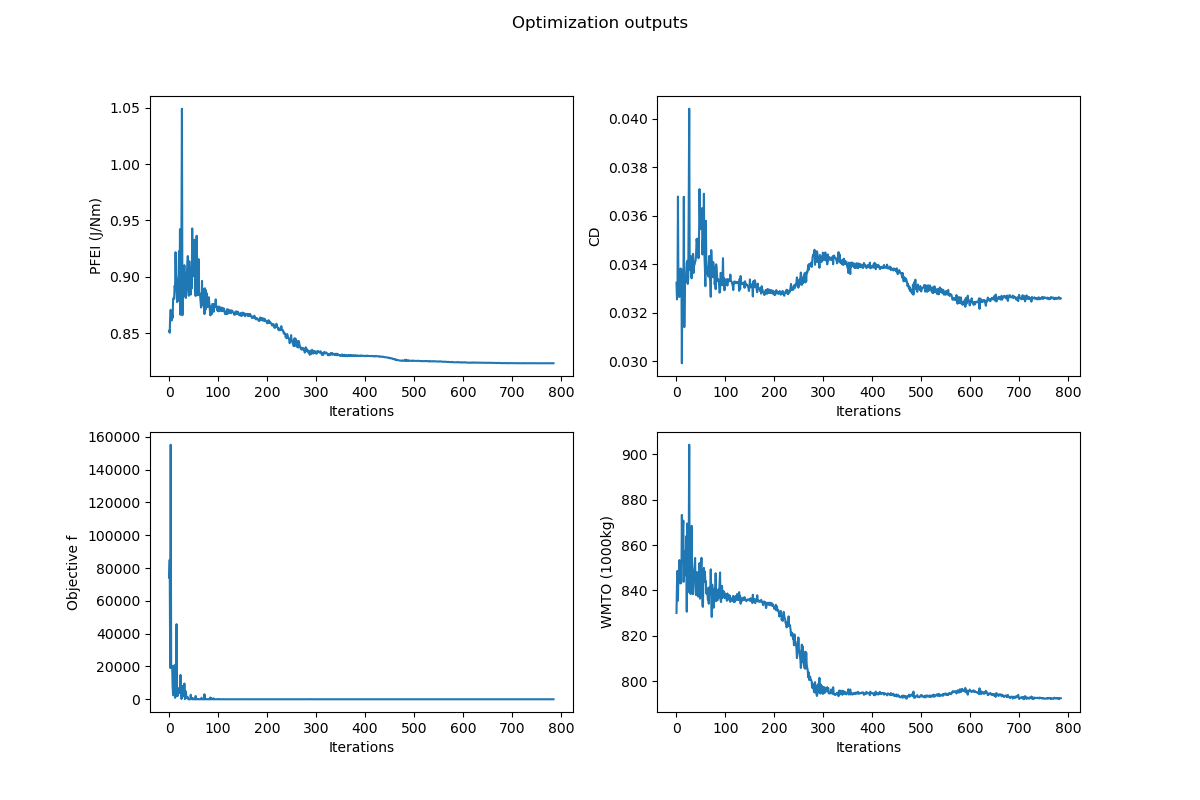
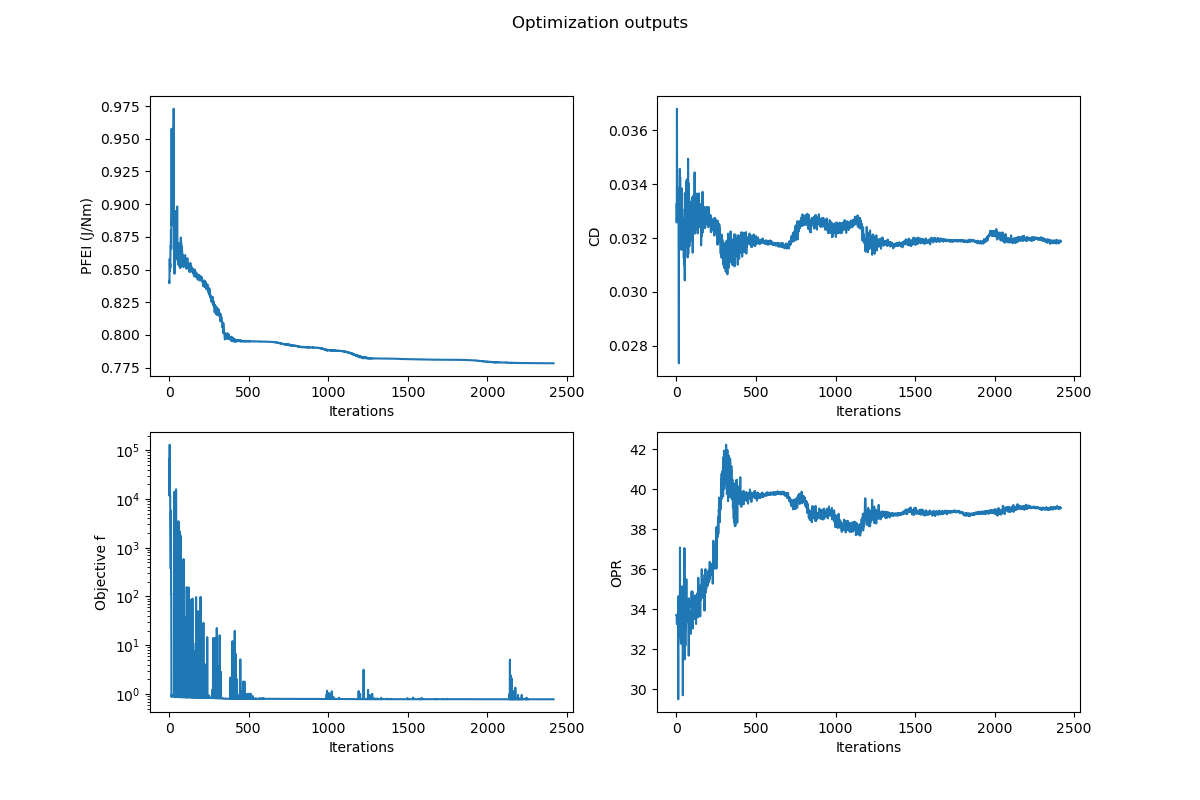
Improved tutorials, Fixed test PFEI equality, additions to README (#109)
* Payload Range tutorial

* Start cleaning up woper.jl

Still need to remove hard coded bits. Probably best if I do this after cloning it. Going to try that.

* default toml file for PRD

* pushing relevant files for PRD tutorial

* added optimization tutorial

* Update optimization.md

Removed some remnants of hydrogen tanks and some minor formatting

* moving tutorial input files to example + minor changes

* PRD scope fix, opt Tt4+iept3 addition

* added docs figures + opt improvements

* cleaning up prd file, plot fix

* better optimziation script with OPR and FPR

* optimization improvements, test fix, readme additions

diff --git a/docs/src/examples/optimization.md b/docs/src/examples/optimization.md
@@ -1,20 +1,27 @@
 # Example for a Multi-variable Optimization
 
+![Optimization Iteration Plot](../assets/Opt_tutorial_iterations.png)
+
 To run a multi variable optimization run on an aircraft model first determing your design variables. For this example the design variables are:
 
 1. Aspect Ratio: `AR`
-2. Cruise Altitude: `Alt` 
+2. Cruise Altitude: `Alt`
 3. Lift Coefficient: `Cl`  
-4. Wing Sweep: `Λ` 
+4. Wing Sweep: `Λ`
 5. Inner panel taper ratio: `λs`  
 6. Outer panel taper ratio: `λt`  
-7. Root thickness to chord: `hboxo`   
-8. Spanbreak thickness to chord: `hboxs`   
-9. Break/root cl ratio = cls/clo: `rcls`    
-10. Tip/root cl ratio = clt/clo: `rclt` 
+7. Root thickness to chord: `hboxo`
+8. Spanbreak thickness to chord: `hboxs`
+9. Break/root cl ratio = cls/clo: `rcls`
+10. Tip/root cl ratio = clt/clo: `rclt`
+11. Tt4: `Tt4`
+12. High Pressure Compressor Pressure Ratio: `pihc`
+13. Fan Pressure ratio: `pif`
 
 ## Initialiation and loading models
+
 Start the script importing `TASOPT.jl`, `PyPlot`, `index.inc`, `NLopt`.
+
 ```julia
 # Import modules
 using PyPlot
@@ -26,22 +33,21 @@ include("../src/misc/index.inc")
 # import indices for calling parameters
 using NLopt
 ```
-Initialize arrays used for plotting and variables for simplifying usage
+
+Initialize arrays used for plotting
+
 ```julia
 xarray = []
 farray = []
 PFEIarray = []
 CDarray = []
-WMTOarray = []
+OPRarray = []
 track_fig = nothing
 ft_to_m = 0.3048
-parg = ac.parg 
-para = ac.para 
-pari = ac.pari
-parm = ac.parm
-pare = ac.pare
 ```
+
 Load aircraft model and size it to get initial values:
+
 ```julia
 # Load default model
 ac = read_aircraft_model(joinpath(TASOPT.__TASOPTroot__, "../example/opt_input.toml"))
@@ -49,29 +55,39 @@ ac = read_aircraft_model(joinpath(TASOPT.__TASOPTroot__, "../example/opt_input.t
 # Size aircraft once to get initial values
 size_aircraft!(ac)
 ```
+
 ## Setting Optimization Parameters
+
 This example uses a Nedler Mead optimization aimed towards optimizing for passenger fuel emission index (PFEI) while checking for other constraints.
-#### Set the Upper and Lower limits for all design variables:
+
+### Set the Upper and Lower limits for all design variables
+
 ```julia
 # DESIGN VARIABLES
-#             AR    Alt(ft)  Cl     Λ     λs  λt   hboxo   hboxs   rcls    rclt 
-lower      = [7.0 , 20000.0, 0.40, 10.0, 0.1, 0.1, 0.10,   0.10,   0.1,    0.1]
-upper      = [12.0, 60000.0, 0.65, 40.0, 1.0, 1.0, 0.15,   0.15,   1.4,    1.0] 
+#             AR    Alt(ft)  Cl     Λ     λs  λt   hboxo   hboxs   rcls    rclt     Tt4CR   iepihc iepif
+lower      = [7.0 , 20000.0, 0.40, 10.0, 0.1, 0.1, 0.10,   0.10,   0.1,    0.1,     700.0,  6,      0]
+upper      = [12.0, 60000.0, 0.65, 40.0, 1.0, 1.0, 0.15,   0.15,   1.4,    1.0,     2000.0, 15,     10] 
 
 ```
-#### Set the initial values for all design variables:
+
+### Set the initial values for all design variables
+
 ```julia
 initial =[
-        parg[igAR], 33000.0, 0.57, parg[igsweep], 
-        parg[iglambdas], parg[iglambdat], parg[ighboxo], 
-        parg[ighboxs], para[iarcls, ipcruise1], para[iarclt, ipcruise1], 
+        ac.parg[igAR], 33000.0, 0.57, ac.parg[igsweep], 
+        ac.parg[iglambdas], ac.parg[iglambdat], ac.parg[ighboxo], 
+        ac.parg[ighboxs], ac.para[iarcls, ipcruise1,1], ac.para[iarclt, ipcruise1,1], 1587, 11.46, 1.66
 ]
 ```
-#### Set initial dx values for all design variables:
+
+### Set initial dx values for all design variables
+
 ```julia
-initial_dx = [ 0.5, 1000.0,  0.05, 0.1,  0.01,0.01,0.01,   0.01,   0.01,   0.01]
+initial_dx = [ 0.5, 1000.0,  0.05, 0.1,  0.01,0.01,0.01,   0.01,   0.01,   0.01, 100, 0.5,0.2]
 ```
-#### Set other optimization factors:
+
+### Set other optimization factors
+
 ```julia
 # Set FTOL
 f_tol_rel = 1e-5
@@ -89,79 +105,57 @@ opt.min_objective = obj
 opt.initial_step = initial_dx
 opt.ftol_rel = f_tol_rel
 ```
+
 ## Objective Function
+
 ```julia
 function obj(x, grad)
-    parg[igAR] = x[1] # Aspect Ratio 
-    para[iaalt, ipcruise1, :] .=  x[2] * ft_to_m # Cruise Altitude
-    para[iaCL, ipclimb1+1:ipdescentn-1, :] .= x[3] # CL
-    parg[igsweep] = x[4] # Wing sweep 
-    parg[iglambdas]  = x[5] #inner_panel_taper_ratio
-    parg[iglambdat]  = x[6] #outer_panel_taper_ratio
-    parg[ighboxo] = x[7] #root_thickness_to_chord
-    parg[ighboxs] = x[8] #spanbreak_thickness_to_chord
-    para[iarcls, ipclimb1+1 : ipdescentn-1, :] .= x[9]   #  rcls    break/root cl ratio = cls/clo
-    para[iarclt, ipclimb1+1 : ipdescentn-1, :] .= x[10]   #  rclt    tip  /root cl ratio = clt/clo
+    ac.parg[igAR] = x[1] # Aspect Ratio 
+    ac.para[iaalt, ipcruise1, :] .=  x[2] * ft_to_m # Cruise Altitude
+    ac.para[iaCL, ipclimb1+1:ipdescentn-1, :] .= x[3] # CL
+    ac.parg[igsweep] = x[4] # Wing sweep 
+    ac.parg[iglambdas] = x[5] #inner_panel_taper_ratio
+    ac.parg[iglambdat] = x[6] #outer_panel_taper_ratio
+    ac.parg[ighboxo] = x[7] #root_thickness_to_chord
+    ac.parg[ighboxs] = x[8] #spanbreak_thickness_to_chord
+    ac.para[iarcls, ipclimb1+1 : ipdescentn-1, :] .= x[9]   #  rcls    break/root cl ratio = cls/clo
+    ac.para[iarclt, ipclimb1+1 : ipdescentn-1, :] .= x[10]   #  rclt    tip  /root cl ratio = clt/clo
+    ac.pare[ieTt4, ipcruise1:ipcruise2, :] .= x[11] # Tt4
+    ac.pare[iepihc, ipclimb1+1 : ipdescentn-1, :] .= x[12] # High Pressure Compressor Pressure Ratio
+    ac.pare[iepif, ipclimbn, :] .= x[13] #Fan PR 
+    ac.pare[iepilc, :, :] .= 3 # Low Pressure Compressure Pressure Ratio set to 3
 
-    # Sizing aircraft with new parameters
-    TASOPT.size_aircraft!(ac, iter = 50)
-    f = parm[imPFEI]
-    push!(PFEIarray, parm[imPFEI])
+    # Sizing aircraft with new ac.parameters
+    TASOPT.size_aircraft!(ac, iter =50, printiter=false)
+    f = ac.parm[imPFEI]
+    push!(PFEIarray, ac.parm[imPFEI])
     push!(xarray, x)
-    push!(CDarray, para[iaCD, ipcruise1, 1])
-    push!(WMTOarray, parg[igWMTO])
-
-    # Max span constriant
-    bmax = parg[igbmax]
-    b    = parg[igb]
-    constraint  = b/bmax - 1.0
-    penfac  = 25.0* parg[igWpay]
-    f = f + penfac*max(0.0, constraint)^2
-
-    # Min climb gradient
-    gtocmin = parg[iggtocmin]
-    gtoc    = para[iagamV, ipclimbn]
-    constraint = 1.0 - gtoc/gtocmin
-    penfac = 1.0*parg[igWpay]
-    f = f + penfac*max(0.0, constraint)^2
+    push!(CDarray, ac.para[iaCD, ipcruise1, 1])
+    push!(OPRarray, ac.pare[iept3]/ac.pare[iept2])
     
+    # Ensure aircraft weight makes sense
+    WTOmax = ac.parg[igWMTO]
+    WTO = ac.parm[imWTO,1]
+    constraint = WTO/WTOmax - 1.0
+    penfac = 10*ac.parg[igWpay]
+    f = f + penfac*max(0.0, constraint)^2
+
     # Ensure fuel volume makes sense
-    Wfmax = parg[igWfmax]
-    Wf    = parg[igWfuel]
+    Wfmax = ac.parg[igWfmax]
+    Wf    = ac.parg[igWfuel]
     constraint = Wf/Wfmax - 1.0
-    penfac = 10*parg[igWpay]
-    f = f + penfac*max(0.0, constraint)^2
-
-    # Max Fan diameters
-    dfanmax = 2.0
-    dfan = parg[igdfan]
-    constraint = dfan/dfanmax - 1.0
-    penfac = parg[igWpay]
-    f = f + penfac*max(0.0, constraint)^2
-
-    # Ensure fans will fit within fuselage
-    daftfanmax = min(3.0, 0.9*parg[igRfuse])
-    daftfan = parg[igdaftfan]
-    constraint = daftfan/daftfanmax - 1.0
-    penfac = parg[igWpay]
-    f = f + penfac*max(0.0, constraint)^2
-
-    # Ensure Fans will fit on wing
-    bo = parg[igbo]
-    b  = parg[igb]
-    lmax = b/2*4/5 - (bo/2+2*parg[igdfan])
-    lfans = parg[igneng]/2*parg[igdfan]*1.25
-    constraint = lfans/lmax - 1.0
-    penfac = parg[igWpay]
+    penfac = 10*ac.parg[igWpay]
     f = f + penfac*max(0.0, constraint)^2
     
-    println("X̄ = $x  ⇨  PFEI = $(parm[imPFEI]) f = $f, MTOW = $(parg[igWMTO])")
+    println("X̄ = $x  ⇨  PFEI = $(ac.parm[imPFEI]) f = $f, OPR = $(ac.pare[iept3]/ac.pare[iept2]),")
     push!(farray, f)
     
     return f
 end
 ```
+
 ## Running the optimization
+
 ```julia
 opt_time = @elapsed (optf, optx, ret) = NLopt.optimize(opt, initial)
 numevals = opt.numevals # the number of function evaluations
@@ -171,28 +165,39 @@ println("got $optf at $optx after $numevals iterations which took $(opt_time/60)
 ```
 
 ## Plotting resulting data
-#### Plot aircraft model details:
+
+### Plot aircraft model details
+
 ```julia
+figure()
 savedir = "./example/optimization/"
+if !isdir(savedir)
+    # If it doesn't exist, create the "optimization" directory
+    mkdir(savedir)
+    println("The 'optimization' directory has been created.")
+end
 figname = "Opt_tutorial_ac_details"
 global track_fig = TASOPT.plot_details(ac; ax = track_fig)
 plt.savefig(savedir*figname*".png")
 ```
-#### Plot optimization outputs over iterations:
+
+### Plot optimization outputs over iterations
+
 ```julia
 fig, ax = plt.subplots(2,2, figsize = (12,8))
 ax[1].plot(PFEIarray)
 ax[1].set_xlabel("Iterations")
 ax[1].set_ylabel("PFEI (J/Nm)")
-ax[2].plot(farray)
+ax[2].semilogy(farray)
 ax[2].set_xlabel("Iterations")
 ax[2].set_ylabel("Objective f")
 ax[3].plot(CDarray)
 ax[3].set_xlabel("Iterations")
 ax[3].set_ylabel("CD")
-ax[4].plot(WMTOarray./1000)
+ax[4].plot(OPRarray)
 ax[4].set_xlabel("Iterations")
-ax[4].set_ylabel("WMTO (1000kg)")
+ax[4].set_ylabel("OPR")
 plt.suptitle("Optimization outputs")
-fig.savefig("./example/Optimization/Opt_tutorial_iterations.png")
+figname2 = "Opt_tutorial_iterations"
+fig.savefig(savedir*figname2*".png")
 ```

diff --git a/README.md b/README.md
@@ -39,6 +39,8 @@ pkg> dev .
 
 You should now be able to import TASOPT from within any Julia script in your base environment.
 
+Note: If you clone another version of TASOPT, `using TASOPT` will always use the directory where `dev .` was used.
+
 If you are using `Revise.jl` be sure to first import `Revise` before importing `TASOPT`
 
 ```julia
@@ -76,7 +78,7 @@ Some guidelines to add to this repo
 ### Work in branches
 
 Usually you should be working on your own fork, **exceptions** are if you have been added as a collaborator to this repo. If you think you are going to be writing large chunks and would like to be added to this repo as a collaborater contact Prashanth, so you can directly modify this repo, without having to create pull requests (you should still be working on separate branches and then you can just do pull requests).
-Don't commit anything to the master branch. Here's how you create your own fork and branch.  
+Don't commit anything to the main branch. Here's how you create your own fork and branch.  
 First create a fork of this repo by clicking on "fork" on the top right hand of the github page. This creates a copy of this repo that is separate form this one. This ensures that any chagnes made to your fork will not affect other's forks.
 
 You will now need to clone your forked version of the repo to your machine where you will be writing code. This [page](https://help.github.com/en/github/getting-started-with-github/fork-a-repo) has a good overview of how to do this whole process.
@@ -109,15 +111,15 @@ To sync your fork, `cd` into the right folder on your terminal and do the follow
 ```bash
     git fetch upstream
 ```
-This fetches all the changes made to the master repo. Then switch to your master branch (you should be working in branches even in your own repo)
+This fetches all the changes made to the main repo. Then switch to your main branch (you should be working in branches even in your own repo)
 ```bash
-   git checkout master
+   git checkout main
 ```
-Once you are in your master branch do:
+Once you are in your main branch do:
 ```bash
-   git merge upstream/master
+   git merge upstream/main
 ```
-This brings your fork's `master` branch into sync with the upstream repository, without losing your local changes.
+This brings your fork's `main` branch into sync with the upstream repository, without losing your local changes.
 
 ## Convert Fortran to Julia
 

diff --git a/docs/src/examples/payload_range.md b/docs/src/examples/payload_range.md
@@ -1,5 +1,7 @@
 # Example for a Payload-Range diagram
 
+![PayloadRangePlot](../assets/PayloadRangeExample.png)
+
 ## Choosing a design mission
 
 To plot a payload-range diagram with a fleet of missions you must first load a model with >=1 non design mission
@@ -14,10 +16,12 @@ Start by choosing a design mission. Your design mission should be what you want 
                             #["3000.0 nmi", "500.0 nmi", "2500.0 nmi", "3550.0 nmi", "3734.0 nmi"] # Design Range + second mission range
     weight_per_pax = "215.0 lbf" # Specify weight per passenger - 
                             # includes luggage [lbm or lbf or kg or N] 
-                            # judging you if you use imperial units but wtvs
 ```
+
 ## Julia script for Payload Range Diagram
+
 Start the script importing `TASOPT.jl`, `PyPlot` and `index.inc` and then loading the default aircraft model.
+
 ```julia
 # Import modules
 using PyPlot
@@ -34,6 +38,7 @@ time_wsize = @elapsed size_aircraft!(ac)
 ```
 
 Initialize some variables for mission range and payloads
+
 ```julia
 nmis = size(ac.parm)[2] # Get number of missions
 MAX_PAYLOAD = 230 * 215 * 4.448222 # Starting Payload, #Passengers * 215 lb * lb_to_N
@@ -45,7 +50,8 @@ curr_range = Range_arr[1]
 prev_range = 0.1
 ```
 
-## Initialize variables for mission iterations:
+## Initialize variables for mission iterations
+
 ```julia
 NPSS = Base.Process
 NPSS_PT = true
@@ -60,6 +66,7 @@ y_Wemtpy = []
 ```
 
 ## Main iteration loop
+
 ```julia
 while MAX_PAYLOAD >= 0
     println("-----------------------")
@@ -108,6 +115,7 @@ end
 ```
 
 ## Plot Payload Range diagram
+
 ```julia
 using PyPlot
 figure()
@@ -122,4 +130,3 @@ legend()
 grid()
 savefig("./PayloadRangeExample.png")
 ```
-
